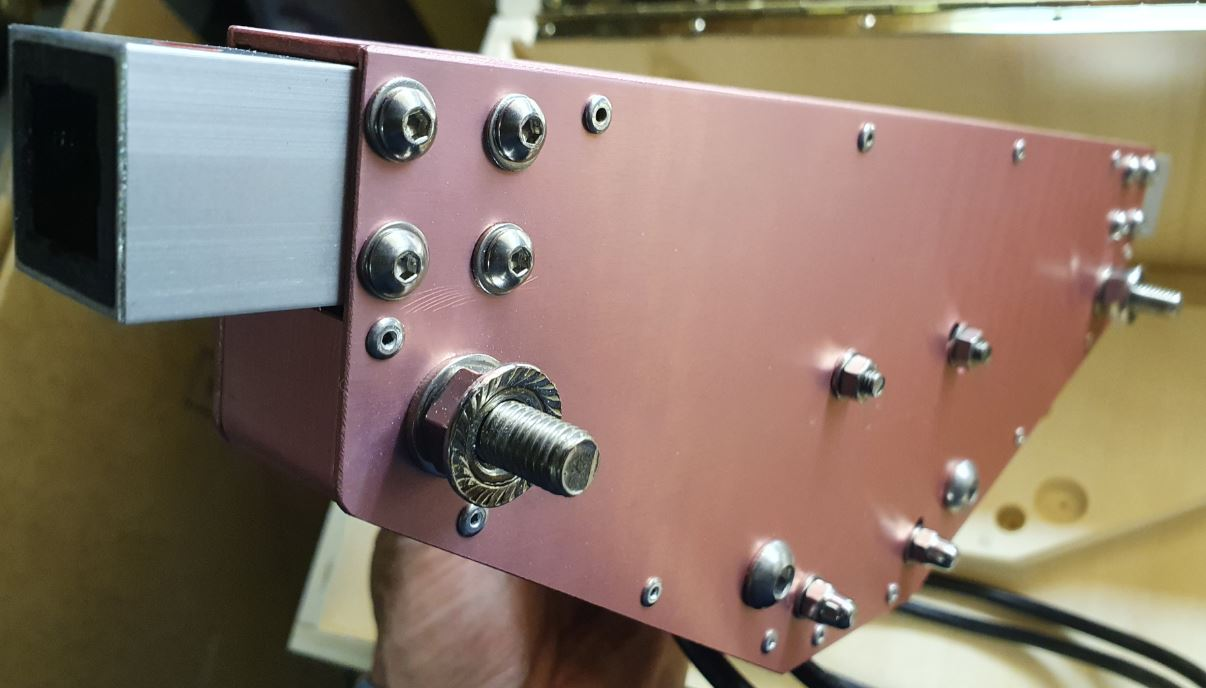
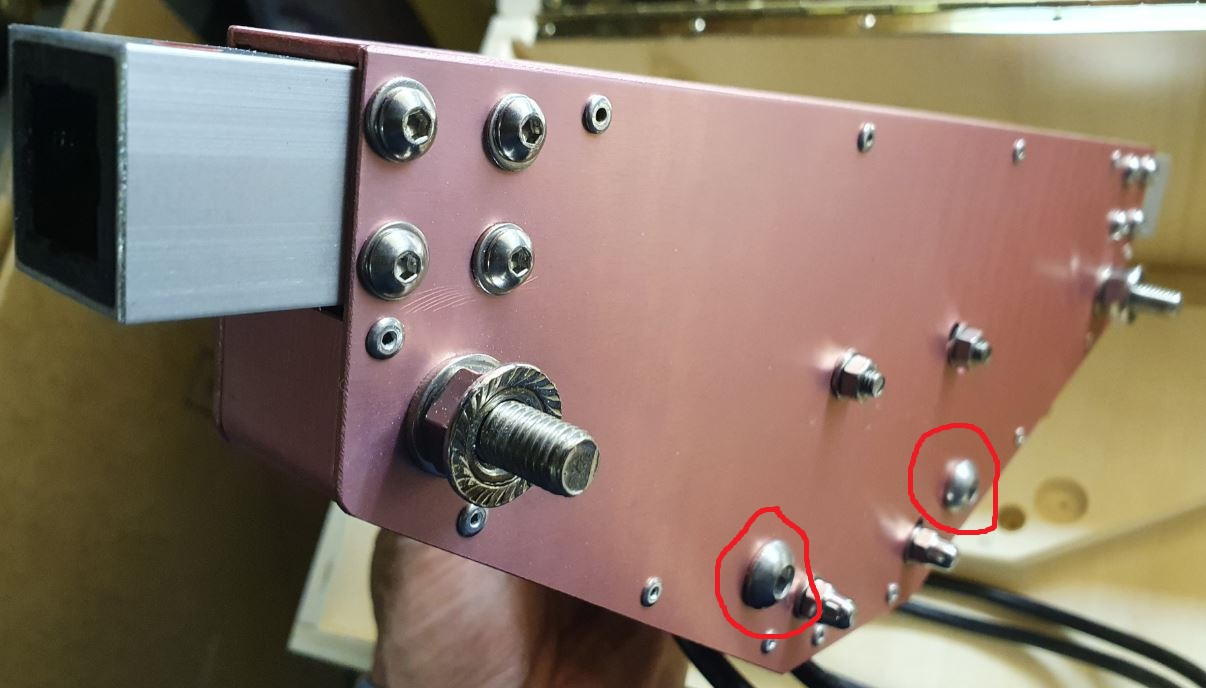
qwer

Changed region(s): [[0.7363, 0.6105, 0.8284, 0.7936], [0.5829, 0.7326, 0.675, 0.9157], [0.6136, 0.8547, 0.7056, 0.9462]]

diff --git a/docs/source/Machine/Machine.rst b/docs/source/Machine/Machine.rst
@@ -8,23 +8,83 @@ Static Parts
 Casing
 ^^^^^^
 
+.. image:: figures/Casing-pic-Machine-DIY-LM42P.JPG
+    :width: 500
+    :align: center
+
+Video
+'''''
+This video shows how to make the Casing and the Casing Motor Side
+
+.. raw:: html
+
+    <iframe width="350" height="245"
+    src="https://www.youtube.com/embed/knJyQPlPn18"
+    frameborder="0" 
+    allowfullscreen></iframe>
+    
+
+Casing
+''''''
+
 .. image:: figures/Casing-Machine-DIY-LM42P.PNG
     :width: 500
     :align: center
 
 Casing Motor Side
-^^^^^^^^^^^^^^^^^
+'''''''''''''''''
 
 .. image:: figures/Casing_Motor_Side-Machine-DIY-LM42P.PNG
     :width: 500
     :align: center	    
 
+	    
+Jig Casing
+''''''''''
+
+   .. image:: figures/Jig_Casing-3DModel-Machine-DIY-LM42P.PNG
+    :width: 500
+    :align: center	    
+
+	    
+  - Drill Bush material : brass
+  - STL file -> |JigCasingSTL|
+
+  .. |JigCasingSTL| raw:: html
+
+    <a href="https://www.thingiverse.com/thing:4719536/files"
+    target="_blank">Jig Casing STL</a>
+
+	    
 Frame
 ^^^^^
 
 .. image:: figures/Frame-Machine-DIY-LM42P.PNG
     :width: 500
     :align: center
+
+Video
+'''''
+
+This video shows how to make the Frame :
+
+.. raw:: html
+
+    <iframe width="350" height="245"
+    src="https://www.youtube.com/embed/J1oeEkLgkek"
+    frameborder="0" 
+    allowfullscreen></iframe>
+
+    
+Large Frame
+'''''''''''
+
+
+Medium Frame
+''''''''''''
+
+Small Frame
+'''''''''''
 
 	    
 Square Bushing	    
@@ -45,12 +105,6 @@ Quantity : 2x
     :align: center	    	    
 
 	    
-	    
-Listing Parts
-^^^^^^^^^^^^^
-
-
-
 Moving Parts
 ------------
 Listing Parts
@@ -263,7 +317,7 @@ Listing Parts
     :width: 200
     :align: center
 
-6) Washer M6
+6) Washer M8
 
    - Quantity : 1x
    - Material : stainless  
@@ -285,33 +339,61 @@ Listing Parts
 
 Belt Joint
 ^^^^^^^^^^
-.. image:: figures/Belt_Joint_Exploded-Machine-DIY-LM42P.JPG
+
+.. image:: figures/Belt_Joint_Pic-Machine-DIY-LM42P.JPG
     :width: 400
     :align: center
 
+Video
+'''''
 
+This video shows how to make the Belt Joint
 
+.. raw:: html
+
+    <iframe width="350" height="245"
+    src="https://www.youtube.com/embed/40f_kVVAy8c"
+    frameborder="0" 
+    allowfullscreen></iframe>
+    
 	    
 Listing Parts
 '''''''''''''
 
+.. image:: figures/Belt_Joint_Exploded-Machine-DIY-LM42P.JPG
+    :width: 400
+    :align: center
+
 1. Base Belt Joint
-
-  - Quantity : 1x
-  - Material : 3D printed PLA (innerfill = 100%)
-
-.. image:: figures/Base_Belt_Joint-Machine-DIY-LM42P.JPG
+   
+   .. image:: figures/Base_Belt_Joint-Machine-DIY-LM42P.JPG
     :width: 350
     :align: center
+	    
+  - Quantity : 1x
+  - Material : 3D printed PLA (innerfill = 100%)
+  - STL file -> |BaseBeltJointSTL|
+
+  .. |BaseBeltJointSTL| raw:: html
+
+    <a href="https://www.thingiverse.com/thing:4718335/files"
+    target="_blank">Base Belt Joint STL</a>
+
 
 2. Counterpart Base Belt Joint 
 
-  - Quantity : 1x
-  - Material : 3D printed PLA (innerfill = 100%)
-
-.. image:: figures/Counterpart_Base_Belt_Joint-Machine-DIY-LM42P.JPG
+   .. image:: figures/Counterpart_Base_Belt_Joint-Machine-DIY-LM42P.JPG
     :width: 350
     :align: center
+   
+  - Quantity : 1x
+  - Material : 3D printed PLA (innerfill = 100%)
+  - STL file -> |ConterPartBaseBeltJointSTL|
+
+  .. |ConterPartBaseBeltJointSTL| raw:: html
+
+    <a href="https://www.thingiverse.com/thing:4714825/files"
+    target="_blank">Counterpart Base Belt Joint STL</a>
 
 3. Spacer Metal Disc
 
@@ -366,8 +448,19 @@ Rod
       :width: 500
       :align: center
 
+Video
+'''''
 
+This video shows how to make the Rod
 
+.. raw:: html
+
+    <iframe width="350" height="245"
+    src="https://www.youtube.com/embed/hlsWKp7FWDQ"
+    frameborder="0" 
+    allowfullscreen></iframe>
+
+    
 Listing Parts
 '''''''''''''
 
@@ -430,8 +523,8 @@ Video
     frameborder="0" 
     allowfullscreen></iframe>
 
-There is an error occured in this video the bolt should be mounted
-like on these images :
+There is an error occured in this video the bolts (in red) should be
+mounted like on these images : 
 
 .. image:: figures/HowTheAssemblyShouldBe1.JPG
     :width: 500

diff --git a/docs/source/FasteningElements/.#FasteningElements.rst b/docs/source/FasteningElements/.#FasteningElements.rst
@@ -1,0 +1,1 @@
+dy@LAPTOP-NEU01DV2.12612:1607516539
